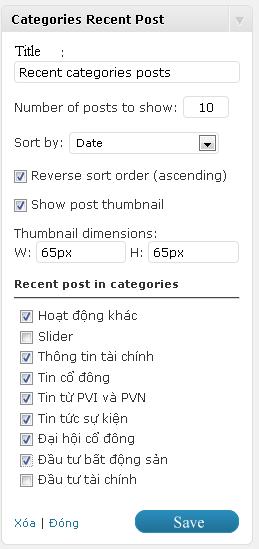
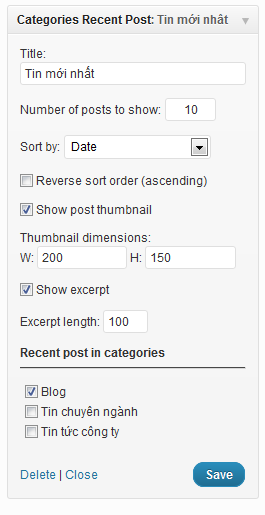
Update new feature: show or hide exerpt
git-svn-id: https://plugins.svn.wordpress.org/categories-recent-post/trunk@575381 b8457f37-d9ea-0310-8a92-e5e31aec5664

diff --git a/categories_recent_posts.php b/categories_recent_posts.php
@@ -25,7 +25,7 @@ if ( function_exists('add_image_size') )
 
 class Category_Recent_posts extends WP_Widget {
 	function Category_Recent_posts() {
-		parent::WP_Widget(false, $name='Categories Recent Post');
+		parent::WP_Widget(false, $name='Categories Recent Post',array( 'description' =>'Display recent posts from checked categories'));
 	}
 	
 	function widget($args, $instance)
@@ -33,27 +33,25 @@ class Category_Recent_posts extends WP_Widget {
 		// outputs the content of the widget
 		extract( $args );
 		$sizes = get_option('sk_cat_post_thumb_sizes');
-		
-		// If not title, use the "Recent Post in categories".
-		if( !$instance["title"] ) {
-			$instance["title"] = "Recent Post in categories";
-	  	}
+
 		echo $before_widget;
 			echo $before_title . $instance["title"]. $after_title;
 			//Noi dung widget
 			$catArr	=	$instance["selected_cats"];
 			$strCat	=	"";
-			foreach($catArr as $value){
-				$strCat	.=	$value.",";		
+			if(!empty($catArr))
+			{
+				foreach($catArr as $value){
+					$strCat	.=	$value.",";		
+				}
+				$strCat	=	substr($strCat,0,strlen($strCat)-1);
 			}
-			$strCat	=	substr($strCat,0,strlen($strCat)-1);
 			
 			$valid_sort_orders = array('date', 'title', 'comment_count', 'random');
 			 if ( in_array($instance['sort_by'], $valid_sort_orders) ) {
 				$sort_by = $instance['sort_by'];
 				$sort_order = (bool) $instance['asc_sort_order'] ? 'ASC' : 'DESC';
 			  } else {
-				// by default, display latest first
 				$sort_by = 'date';
 				$sort_order = 'DESC';
 			 }
@@ -64,7 +62,6 @@ class Category_Recent_posts extends WP_Widget {
 				"&orderby=" . $sort_by .
 				"&order=" . $sort_order
 			  );
-			
 			// Post list
 			echo "<ul>\n";
 			
@@ -81,14 +78,18 @@ class Category_Recent_posts extends WP_Widget {
 							has_post_thumbnail()
 						) :
 					?>
-						<a href="<?php the_permalink(); ?>" title="<?php the_title_attribute(); ?>">
-						<?php the_post_thumbnail( 'cat_post_thumb_size'.$this->id, 'class=imgleft' ); ?>
-						</a>
-						 <a class="post-title" href="<?php the_permalink(); ?>" rel="bookmark" title="Permanent link to <?php the_title_attribute(); ?>"><?php the_title(); ?></a>
-						 <br clear="all" /><br />
-					<?php else:?>     
-					 <a class="post-title" href="<?php the_permalink(); ?>" rel="bookmark" title="Permanent link to <?php the_title_attribute(); ?>"><?php the_title(); ?></a>
+					<a href="<?php the_permalink(); ?>"><?php the_post_thumbnail( 'cat_post_thumb_size'.$this->id, 'class=post-list-img' ); ?></a>
 					<?php endif; ?>
+					<a class="post-title" href="<?php the_permalink(); ?>" rel="bookmark" title="Permanent link to <?php the_title_attribute(); ?>"><?php the_title(); ?></a>
+					<?php
+						if($instance['show_excerpt']){
+							$new_excerpt_length = create_function('$length', "return " . $instance["excerpt_length"] . ";");
+							if ( $instance["excerpt_length"] > 0 ){
+								add_filter('excerpt_length', $new_excerpt_length);
+							}	
+							the_excerpt();
+						}
+					?>
 				</li>
 			<?php
 			}
@@ -146,24 +147,33 @@ class Category_Recent_posts extends WP_Widget {
 			</label>
 		</p>
 		<p>
-			<label>
 				<?php _e('Thumbnail dimensions'); ?>:<br />
 				<label for="<?php echo $this->get_field_id("thumb_w"); ?>">
-					W: <input class="widefat" style="width:40%;" type="text" id="<?php echo $this->get_field_id("thumb_w"); ?>" name="<?php echo $this->get_field_name("thumb_w"); ?>" value="<?php echo $instance["thumb_w"]; ?>" />
-				</label>
+					W: <input class="widefat" style="width:40%;" type="text" id="<?php echo $this->get_field_id("thumb_w"); ?>" name="<?php echo $this->get_field_name("thumb_w"); ?>" value="<?php echo $instance["thumb_w"]; ?>" /></label>
+				
 				
 				<label for="<?php echo $this->get_field_id("thumb_h"); ?>">
-					H: <input class="widefat" style="width:40%;" type="text" id="<?php echo $this->get_field_id("thumb_h"); ?>" name="<?php echo $this->get_field_name("thumb_h"); ?>" value="<?php echo $instance["thumb_h"]; ?>" />
-				</label>
-			</label>
+					H: <input class="widefat" style="width:40%;" type="text" id="<?php echo $this->get_field_id("thumb_h"); ?>" name="<?php echo $this->get_field_name("thumb_h"); ?>" value="<?php echo $instance["thumb_h"]; ?>" /></label>
+				
 		</p>
 		<?php endif; ?>
+        
+        <p>
+			<label for="<?php echo $this->get_field_id("show_excerpt"); ?>">
+				<input type="checkbox" class="checkbox" id="<?php echo $this->get_field_id("show_excerpt"); ?>" name="<?php echo $this->get_field_name("show_excerpt"); ?>"<?php checked( (bool) $instance["show_excerpt"], true ); ?> />
+				<?php _e( 'Show excerpt' ); ?>
+			</label>
+		</p>
+        <p>
+        	<label for="<?php echo $this->get_field_id("excerpt_length"); ?>">
+					Excerpt length: <input class="widefat" style="width:20%;" type="text" id="<?php echo $this->get_field_id("excerpt_length"); ?>" name="<?php echo $this->get_field_name("excerpt_length"); ?>" value="<?php echo $instance["excerpt_length"]; ?>" /></label>
+        </p>
          
         <?php
 				echo '			<b>Recent post in categories</b><hr />'; 
 				echo '			<ul id="categorychecklist" class="list:category categorychecklist form-no-clear" style="list-style-type: none; margin-left: 5px; padding-left: 0px; margin-bottom: 20px;">';
 
-				saokim_wp_category_checklist(0, 0, $selected_cats, false); 
+				saokim_wp_category_checklist(0, 0, $selected_cats, false);  
 				echo '			</ul>'; 
 	}
 
